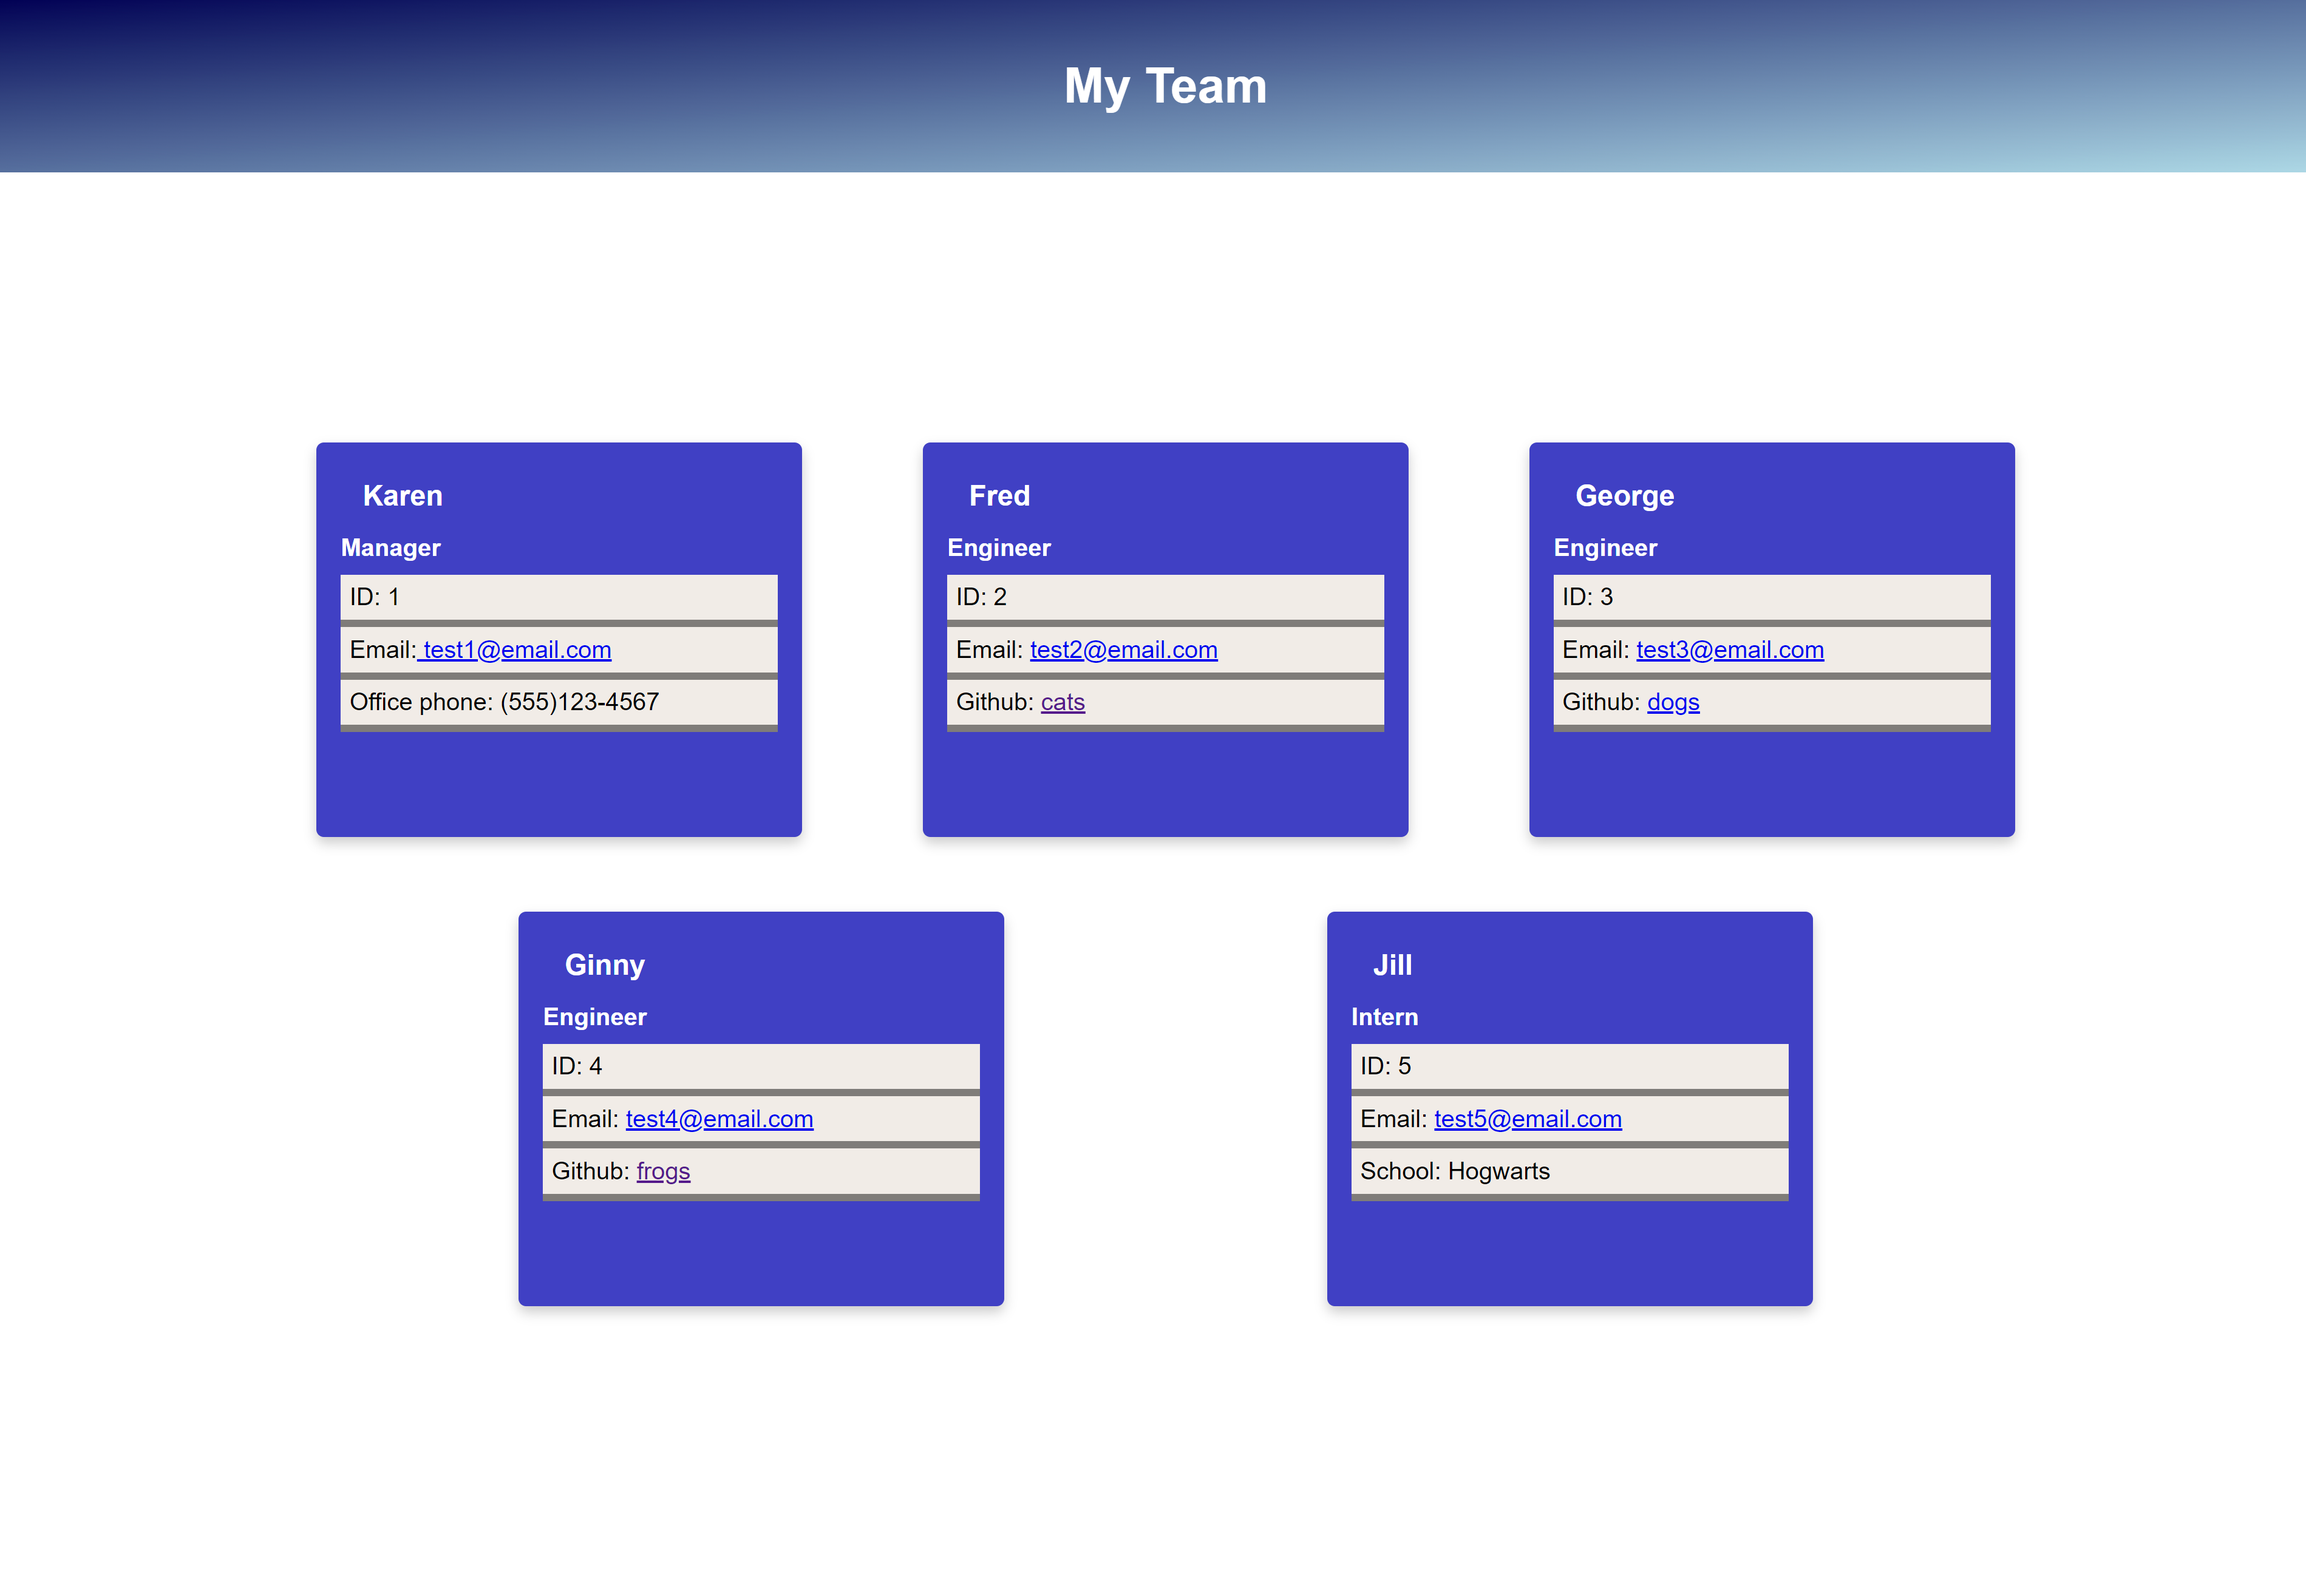
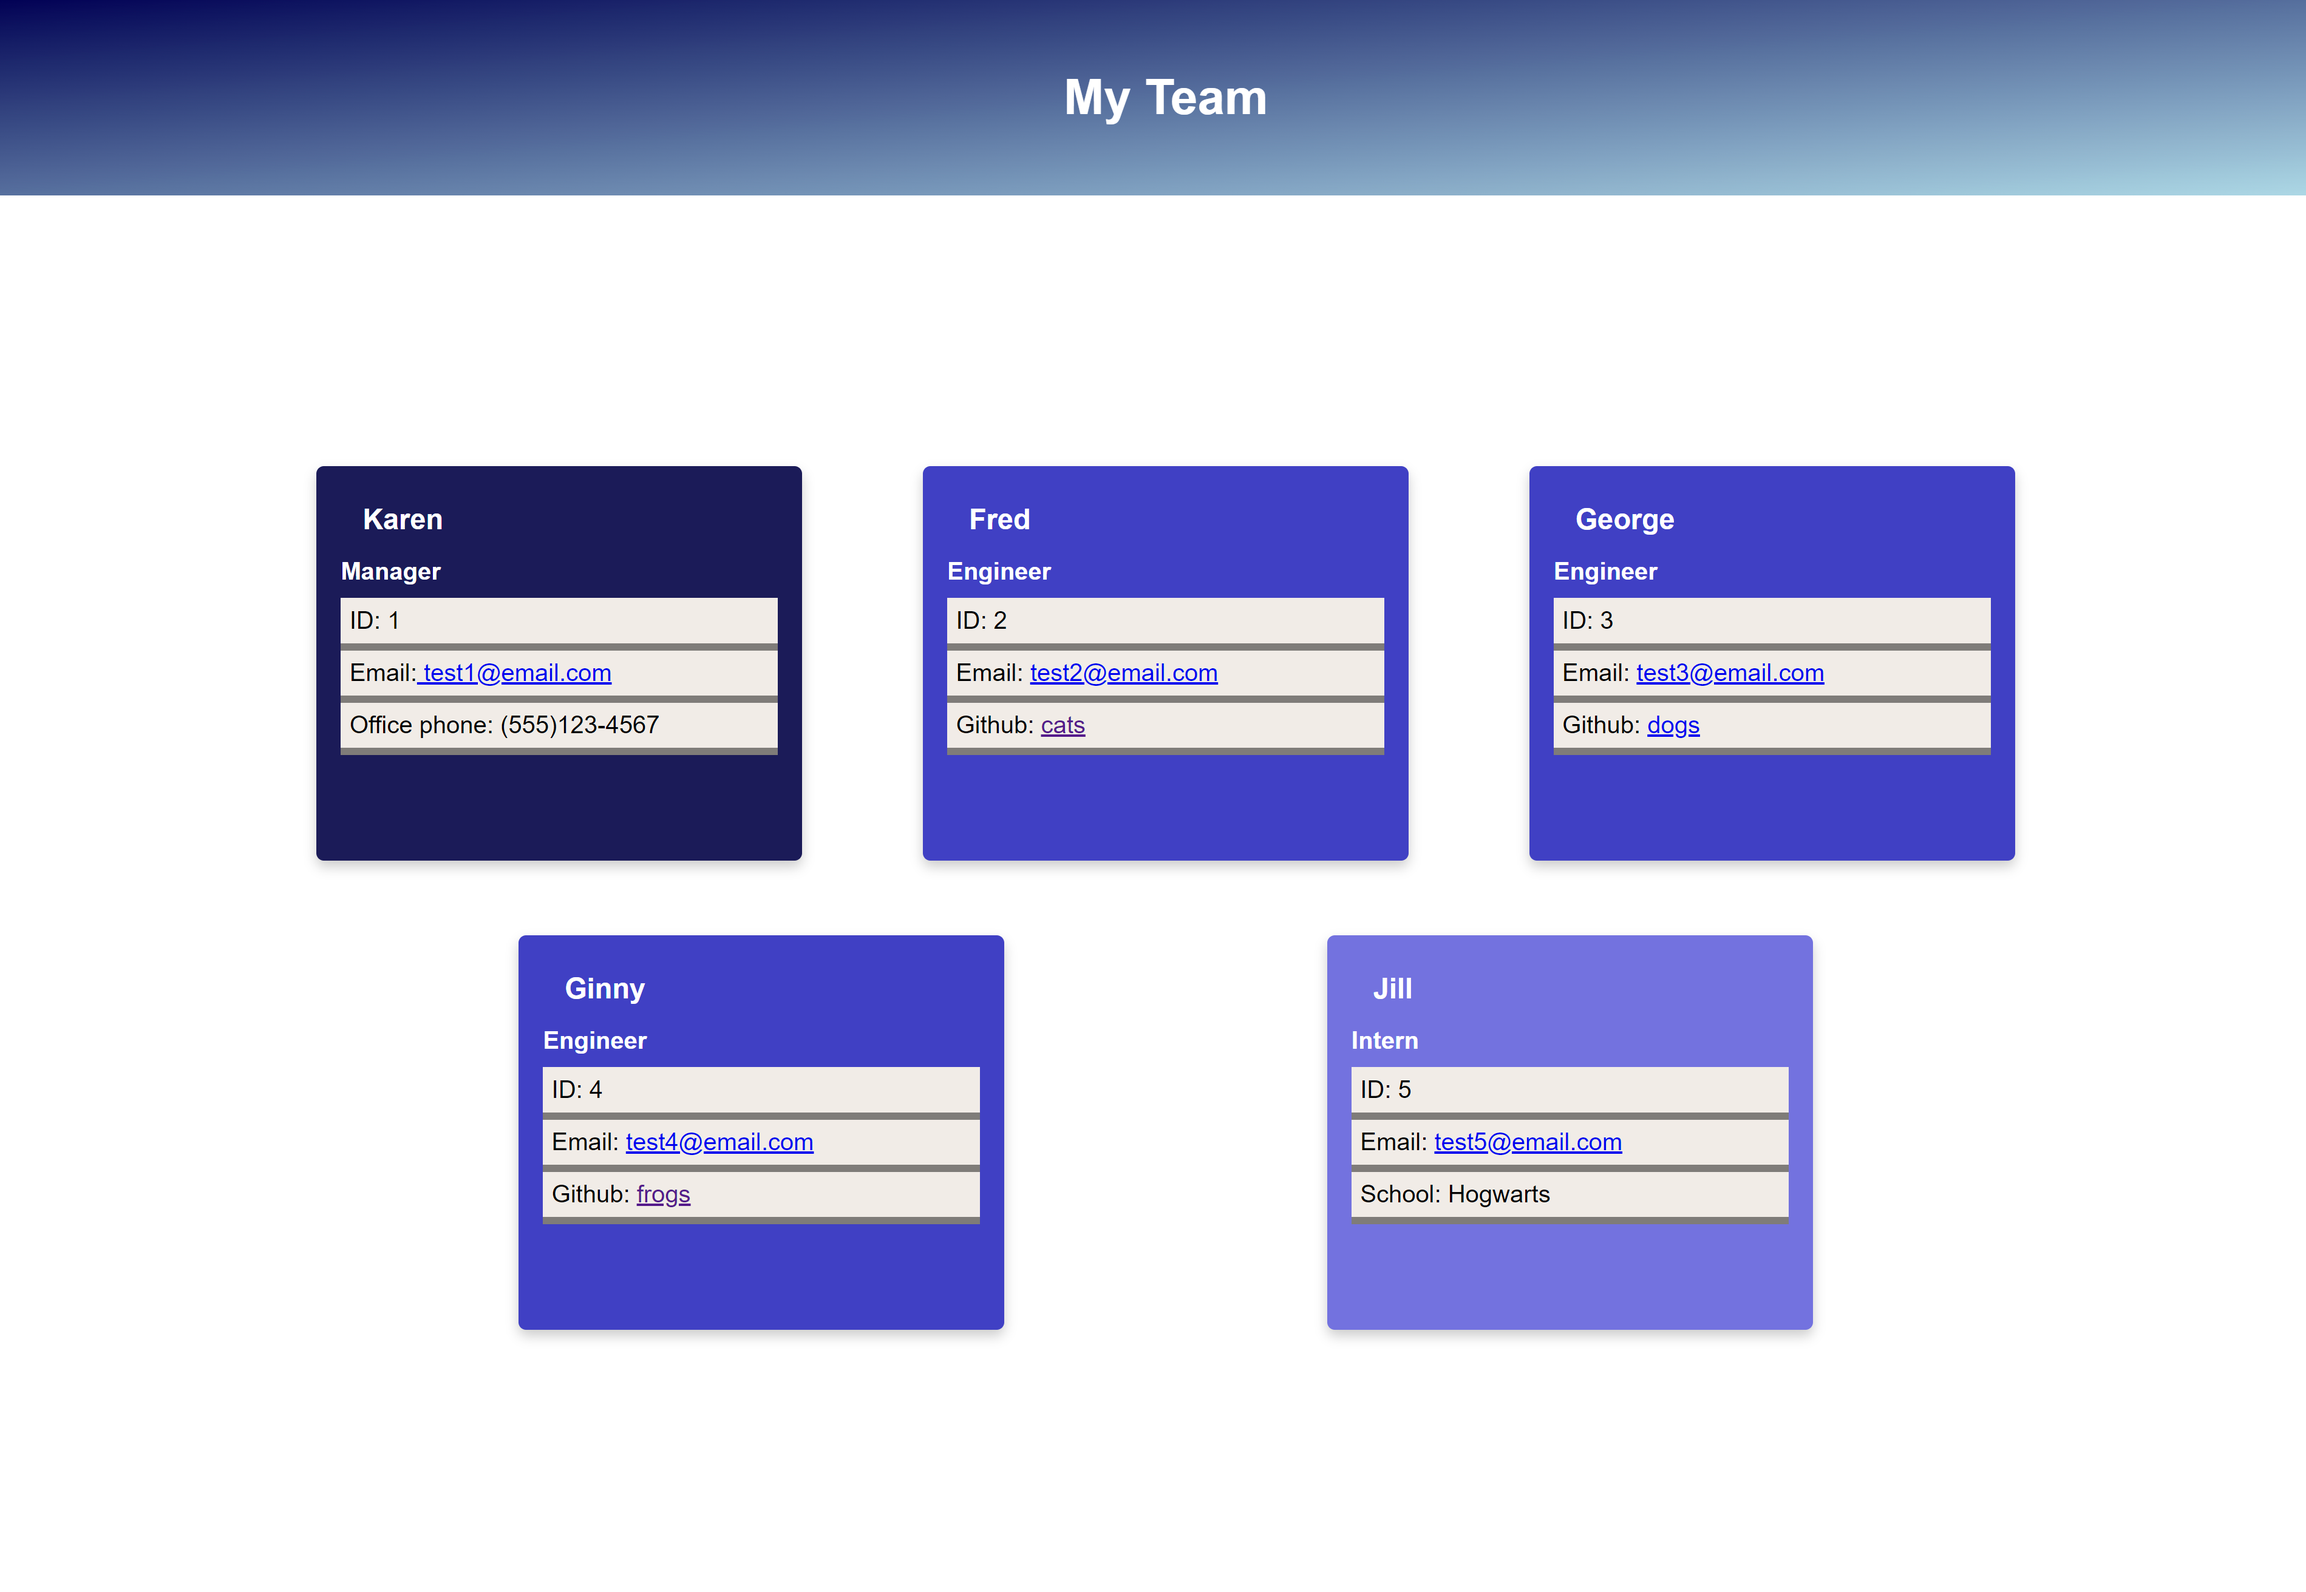
changed the output file for the generated html to dist instead of output. also added different colors for each employee on their cards

diff --git a/src/style.css b/src/style.css
@@ -1,55 +1,60 @@
-*{
-    font-family: Arial, Helvetica, sans-serif;
-    margin: 0;
+* {
+  font-family: Arial, Helvetica, sans-serif;
+  margin: 0;
 }
 
-h1{
-    padding: 3%;
-    display: flex;
-    flex-direction: row;
-    justify-content: center;
-    text-align: center;
-    background-image: linear-gradient(to bottom right, rgb(2, 2, 85), lightblue);
-    color: white;
+h1 {
+  padding: 3%;
+  display: flex;
+  flex-direction: row;
+  justify-content: center;
+  text-align: center;
+  background-image: linear-gradient(to bottom right, rgb(2, 2, 85), lightblue);
+  color: white;
 }
 
 section {
-    display: flex;
-    flex-direction: row;
-    padding: 10%;
-    flex-wrap: wrap;
-    flex-shrink: 3;
- justify-content:  space-evenly;
+  display: flex;
+  flex-direction: row;
+  padding: 10%;
+  flex-wrap: wrap;
+  flex-shrink: 3;
+  justify-content: space-evenly;
 }
 
 .container {
-   padding: 2%;
-    flex-wrap: wrap;
-
+  padding: 2%;
+  flex-wrap: wrap;
 }
 
-.card{
-    height:15rem ;
-    width: 18rem;
-    box-shadow: 0 4px 8px 0 rgba(0,0,0,0.2);
-    border-radius: 5px; 
-    padding: 10px 16px;
-    background-color: rgb(64, 64, 196);
+#card {
+  height: 15rem;
+  width: 18rem;
+  box-shadow: 0 4px 8px 0 rgba(0, 0, 0, 0.2);
+  border-radius: 5px;
+  padding: 10px 16px;
 }
-h3{ 
-    padding: 5%;
-    color: white;
+.Manager {
+  background-color: rgb(27, 27, 88);
 }
-h4{
-    padding-bottom: 3%;
-    color: white;
+.Engineer {
+  background-color: rgb(64, 64, 196);
 }
-p{
-    padding: 2%;
-    border-bottom: rgb(128, 124, 121) solid 5px;
-    
+.Intern {
+  background-color: rgb(115, 115, 223);
 }
-.text
-{
-    background-color: rgb(241, 236, 231);
+h3 {
+  padding: 5%;
+  color: white;
+}
+h4 {
+  padding-bottom: 3%;
+  color: white;
+}
+p {
+  padding: 2%;
+  border-bottom: rgb(128, 124, 121) solid 5px;
+}
+.text {
+  background-color: rgb(241, 236, 231);
 }

diff --git a/dist/team.html b/dist/team.html
@@ -1,0 +1,70 @@
+<!DOCTYPE html>
+<html lang="en">
+  <head>
+    <link rel="stylesheet" href="../src/style.css" />
+    <meta charset="UTF-8" />
+    <meta http-equiv="X-UA-Compatible" content="IE=edge" />
+    <meta name="viewport" content="width=device-width, initial-scale=1.0" />
+    <title>My Team Profiles</title>
+  </head>
+
+  <body>
+    <h1>My Team</h1>
+
+    <section> <div class="container">
+  <div id ="card" class="Manager">
+    <h3>shdfsl</h3>
+    <h4>Manager</h4>
+    <div class="text">
+      <p>ID: fjwoef</p>
+     
+      <p>Email:<a class="link" href="mailto:growrg "> growrg  </a></p>
+      
+      <p>Office phone: fgoerg</p>
+    </div>
+  </div>
+</div>
+<div class="container">
+    <div id ="card" class="Engineer">
+        <h3> geohr </h3>
+        <h4> Engineer </h4>
+        <div class="text">
+            <p>ID: greoh </p>
+           
+            <p>Email: <a class="link" href="mailto: goehr "> goehr</a></p>
+           
+           <p>Github: <a href="https://github.com/ghoer" target="_blank"> ghoer</a></p>
+        </div>
+    </div>
+</div>
+<div class="container">
+    <div id ="card" class="Engineer">
+        <h3> goehr </h3>
+        <h4> Engineer </h4>
+        <div class="text">
+            <p>ID: goehr </p>
+           
+            <p>Email: <a class="link" href="mailto: geor "> geor</a></p>
+           
+           <p>Github: <a href="https://github.com/goerg" target="_blank"> goerg</a></p>
+        </div>
+    </div>
+</div>
+<div class="container">
+  <div id ="card" class="Intern">
+    <h3>goer</h3>
+    <h4>Intern</h4>
+    <div class="text">
+      <p>ID: gegeg</p>
+      
+      <p> Email: <a class="link" href="mailto:gjrpe "> gjrpe </a></p>
+ 
+      <p>School: gperg</p>
+    </div>
+  </div>
+</div>
+ 
+     
+    </section>
+  </body>
+</html>

diff --git a/dist/sample.html b/dist/sample.html
@@ -12,7 +12,7 @@
     <h1>My Team</h1>
 
     <section> <div class="container">
-  <div class="card">
+  <div id ="card" class="Manager">
     <h3>Karen</h3>
     <h4>Manager</h4>
     <div class="text">
@@ -25,7 +25,7 @@
   </div>
 </div>
 <div class="container">
-    <div class="card">
+    <div id ="card" class="engineer">
         <h3> Fred </h3>
         <h4> Engineer </h4>
         <div class="text">
@@ -38,7 +38,7 @@
     </div>
 </div>
 <div class="container">
-    <div class="card">
+  <div id ="card" class="engineer">
         <h3> George </h3>
         <h4> Engineer </h4>
         <div class="text">
@@ -51,7 +51,7 @@
     </div>
 </div>
 <div class="container">
-    <div class="card">
+  <div id ="card" class="engineer">
         <h3> Ginny </h3>
         <h4> Engineer </h4>
         <div class="text">
@@ -64,7 +64,7 @@
     </div>
 </div>
 <div class="container">
-  <div class="card">
+  <div id ="card" class="intern">
     <h3>Jill</h3>
     <h4>Intern</h4>
     <div class="text">

diff --git a/index.js b/index.js
@@ -4,11 +4,9 @@ const path = require('path');
 const Manager = require("./lib/Manager");
 const Engineer = require("./lib/Engineer");
 const Intern = require("./lib/Intern");
-const Employee = require("./lib/Employee");
 const generateHtml = require('./src/generateHtml');
-const console = require("console");
 
-let output = path.resolve(__dirname, "output", "team.html")
+let output = path.resolve(__dirname, "dist", "team.html")
 const teamMates = [];
 
 function buildTeam() {

diff --git a/templates/Engineer.html b/templates/Engineer.html
@@ -1,5 +1,5 @@
 <div class="container">
-    <div class="card">
+    <div id ="card" class="{{ role }}">
         <h3> {{ name }} </h3>
         <h4> {{ role }} </h4>
         <div class="text">

diff --git a/templates/Intern.html b/templates/Intern.html
@@ -1,5 +1,5 @@
 <div class="container">
-  <div class="card">
+  <div id ="card" class="{{ role }}">
     <h3>{{ name }}</h3>
     <h4>{{ role }}</h4>
     <div class="text">

diff --git a/templates/Manager.html b/templates/Manager.html
@@ -1,5 +1,5 @@
 <div class="container">
-  <div class="card">
+  <div id ="card" class="{{ role }}">
     <h3>{{ name }}</h3>
     <h4>{{ role }}</h4>
     <div class="text">
